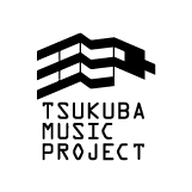
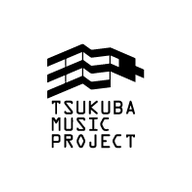
Add files via upload

Changed region(s): [[0.1875, 0.1562, 0.8125, 0.8438]]

diff --git a/public/visitor/style.css b/public/visitor/style.css
@@ -1,5 +1,5 @@
 :root{--bg:#f4f5f7;--card:#fff;--border:#e6e6e6;--text:#111;--sub:#666;--primary:#111;--blue:#0071e3;--green:#18a058;--radius:18px;--shadow:0 1px 3px rgba(0,0,0,.05),0 8px 24px rgba(0,0,0,.05)}
-*{box-sizing:border-box}html,body{margin:0;min-height:100%;font-family:-apple-system,BlinkMacSystemFont,"Helvetica Neue",sans-serif;background:var(--bg);color:var(--text)}body{padding-bottom:calc(82px + env(safe-area-inset-bottom))}button{font:inherit;cursor:pointer}button:focus-visible,a:focus-visible{outline:3px solid #80baff;outline-offset:3px}.topbar{height:64px;position:sticky;top:0;z-index:20;background:rgba(255,255,255,.94);backdrop-filter:blur(18px);display:flex;align-items:center;justify-content:space-between;padding:8px max(16px,calc((100vw - 760px)/2));border-bottom:1px solid rgba(0,0,0,.05)}.brand{display:flex;align-items:center;gap:9px;text-decoration:none;color:var(--text);font-weight:850;font-size:19px;letter-spacing:-.04em}.brand img{width:36px;height:36px;object-fit:contain}.back-btn,.share-top{border:0;background:#f3f4f6;border-radius:12px;width:40px;height:40px;font-size:26px;line-height:1}.back-btn[hidden]{display:none}.share-top{font-size:20px}#app{max-width:760px;margin:auto;padding:18px 16px 24px}.eyebrow{font-size:11px;font-weight:850;letter-spacing:.13em;color:var(--sub);text-transform:uppercase}.page-title{font-size:27px;line-height:1.18;letter-spacing:-.045em;margin:5px 0 7px;font-weight:850}.lead{color:var(--sub);font-size:14px;line-height:1.65;margin:0 0 18px}.section-head{display:flex;align-items:end;justify-content:space-between;gap:12px;margin:26px 2px 12px}.section-head h2{font-size:18px;margin:0;font-weight:850}.section-head button,.text-link{border:0;background:none;color:var(--blue);font-size:13px;font-weight:750}.card{background:var(--card);border-radius:var(--radius);padding:17px;margin-bottom:13px;box-shadow:var(--shadow)}.hero-card{position:relative;overflow:hidden;padding:0;background:#171717;color:white;min-height:260px;display:flex;align-items:end}.hero-card img{position:absolute;inset:0;width:100%;height:100%;object-fit:cover;opacity:.8}.hero-card:after{content:"";position:absolute;inset:25% 0 0;background:linear-gradient(transparent,rgba(0,0,0,.82))}.hero-copy{position:relative;z-index:1;padding:22px;width:100%}.hero-copy .eyebrow{color:#ddd}.hero-copy h2{font-size:27px;line-height:1.15;margin:7px 0}.hero-copy p{margin:0;color:#eee;font-size:13px}.pill{display:inline-flex;align-items:center;gap:6px;border-radius:999px;padding:5px 10px;background:#f1f2f4;color:#444;font-size:11px;font-weight:800}.pill.live{background:#e7f7ee;color:#087b43}.pill.blue{background:#eaf3ff;color:#075eb5}.event-meta{display:flex;gap:8px;flex-wrap:wrap;margin:12px 0}.btn{border:0;border-radius:13px;padding:14px 16px;font-weight:800;width:100%;background:#111;color:#fff}.btn.secondary{background:#f1f2f4;color:#111}.btn.blue{background:var(--blue);color:white}.btn.small{width:auto;padding:10px 13px;font-size:13px}.btn-row{display:flex;gap:9px}.btn-row>*{flex:1}.event-grid{display:grid;grid-template-columns:1fr 1fr;gap:11px}.event-tile{padding:0;overflow:hidden;border:0;text-align:left;background:white;border-radius:16px;box-shadow:var(--shadow)}.event-tile img{width:100%;aspect-ratio:4/3;object-fit:cover;background:#e8e9ec;display:block}.event-tile .tile-copy{padding:12px}.event-tile strong{display:block;font-size:14px;line-height:1.35}.event-tile small{display:block;color:var(--sub);margin-top:5px}.quick-grid{display:grid;grid-template-columns:repeat(4,1fr);gap:9px}.quick{border:0;background:white;border-radius:14px;padding:13px 5px;box-shadow:var(--shadow);font-size:11px;font-weight:750}.quick span{display:block;font-size:22px;margin-bottom:6px}.now-panel{background:#111;color:white;border-radius:17px;padding:16px;margin:13px 0}.now-top{display:flex;align-items:center;justify-content:space-between;color:#ddd;font-size:12px;font-weight:800}.live-dot{width:7px;height:7px;display:inline-block;background:#35d17c;border-radius:50%;margin-right:6px;box-shadow:0 0 0 4px #35d17c22}.now-item{display:flex;justify-content:space-between;gap:12px;padding-top:12px;margin-top:12px;border-top:1px solid #ffffff26}.now-item small{color:#bbb;display:block}.now-item strong{font-size:15px}.timeline{display:grid;gap:10px}.act{display:grid;grid-template-columns:76px 1fr;gap:12px;background:white;padding:14px;border-radius:15px;box-shadow:var(--shadow);border:1px solid transparent}.act.is-now{border-color:#111}.act-time{font-size:13px;font-weight:850;line-height:1.4}.act-time small{display:block;color:var(--sub);font-size:10px}.act-info strong{font-size:15px;display:block}.act-info p{margin:5px 0 0;color:var(--sub);font-size:12px}.act-type{font-size:10px;font-weight:850;color:var(--sub);letter-spacing:.08em}.performer{display:flex;align-items:center;justify-content:space-between;gap:12px;border-top:1px solid var(--border);padding:13px 0}.performer:first-child{border-top:0}.performer strong{font-size:14px}.performer small{display:block;color:var(--sub);font-size:12px;margin-top:3px}.performer button{border:0;background:#f2f3f5;border-radius:10px;padding:8px 11px;font-size:12px;font-weight:750}.drink-grid{display:grid;grid-template-columns:1fr 1fr;gap:10px}.drink{background:white;border-radius:15px;padding:15px;box-shadow:var(--shadow)}.drink strong{font-size:14px}.drink .price{font-size:19px;font-weight:850;margin-top:8px}.drink .sold{font-size:11px;color:#c0392b;font-weight:800}.photo-grid{display:grid;grid-template-columns:repeat(2,1fr);gap:9px}.photo-grid img{width:100%;aspect-ratio:1;object-fit:cover;border-radius:13px;background:#e8e9ec}.empty{background:white;border:1px dashed #d2d4d8;border-radius:16px;padding:25px 16px;text-align:center;color:var(--sub);font-size:13px;line-height:1.6}.empty strong{display:block;color:#222;font-size:15px;margin-bottom:5px}.bottom-nav{position:fixed;z-index:30;bottom:0;left:0;right:0;display:grid;grid-template-columns:repeat(5,minmax(0,1fr));padding:8px 5px calc(8px + env(safe-area-inset-bottom));background:rgba(255,255,255,.96);backdrop-filter:blur(18px);border-top:1px solid #e8e8e8}.bottom-nav button{border:0;background:none;color:#888;display:grid;justify-items:center;gap:3px;padding:2px}.bottom-nav button span{font-size:20px;line-height:1.1}.bottom-nav button small{font-size:9px;font-weight:750}.bottom-nav button.active{color:#111}.bottom-nav button.active span{transform:translateY(-1px)}.notice{font-size:12px;color:var(--sub);line-height:1.6;margin:12px 2px}.modal{position:fixed;inset:0;z-index:60;background:#0008;display:flex;align-items:end;justify-content:center;padding:15px}.modal-box{background:white;border-radius:22px 22px 16px 16px;padding:21px;width:min(100%,560px);max-height:82vh;overflow:auto}.modal-box h2{margin:0 0 8px;font-size:21px}.modal-box p{font-size:14px;color:var(--sub);line-height:1.65}.modal-close{float:right;border:0;border-radius:50%;width:34px;height:34px;background:#f0f1f3;font-size:19px}.loading{text-align:center;padding:60px 10px;color:var(--sub);font-size:13px}.loading img{width:68px;height:68px;object-fit:contain}.error{background:#fff1f0;border-radius:14px;padding:15px;color:#9d2922;font-size:13px}.footer{text-align:center;color:#999;font-size:10px;padding:28px 0 10px}.date-label{color:var(--sub);font-size:12px;font-weight:750;margin:16px 2px 8px}
+*{box-sizing:border-box}html,body{margin:0;min-height:100%;font-family:-apple-system,BlinkMacSystemFont,"Helvetica Neue",sans-serif;background:var(--bg);color:var(--text)}body{padding-bottom:calc(82px + env(safe-area-inset-bottom))}button{font:inherit;cursor:pointer}button:focus-visible,a:focus-visible{outline:3px solid #80baff;outline-offset:3px}.topbar{height:64px;position:sticky;top:0;z-index:20;background:rgba(255,255,255,.94);backdrop-filter:blur(18px);display:flex;align-items:center;justify-content:space-between;padding:8px max(16px,calc((100vw - 760px)/2));border-bottom:1px solid rgba(0,0,0,.05)}.brand{display:flex;align-items:center;gap:9px;text-decoration:none;color:var(--text);font-weight:850;font-size:19px;letter-spacing:-.04em}.brand img{width:36px;height:36px;object-fit:contain}.back-btn,.share-top{border:0;background:#f3f4f6;border-radius:12px;width:40px;height:40px;font-size:26px;line-height:1}.back-btn[hidden]{display:none}.share-top{font-size:20px}#app{max-width:760px;margin:auto;padding:18px 16px 24px}.eyebrow{font-size:11px;font-weight:850;letter-spacing:.13em;color:var(--sub);text-transform:uppercase}.page-title{font-size:27px;line-height:1.18;letter-spacing:-.045em;margin:5px 0 7px;font-weight:850}.lead{color:var(--sub);font-size:14px;line-height:1.65;margin:0 0 18px}.section-head{display:flex;align-items:end;justify-content:space-between;gap:12px;margin:26px 2px 12px}.section-head h2{font-size:18px;margin:0;font-weight:850}.section-head button,.text-link{border:0;background:none;color:var(--blue);font-size:13px;font-weight:750}.card{background:var(--card);border-radius:var(--radius);padding:17px;margin-bottom:13px;box-shadow:var(--shadow)}.hero-card{position:relative;overflow:hidden;padding:0;background:#171717;color:white;min-height:260px;display:flex;align-items:end}.hero-card img{position:absolute;inset:0;width:100%;height:100%;object-fit:cover;opacity:.8}.hero-card:after{content:"";position:absolute;inset:25% 0 0;background:linear-gradient(transparent,rgba(0,0,0,.82))}.hero-copy{position:relative;z-index:1;padding:22px;width:100%}.hero-copy .eyebrow{color:#ddd}.hero-copy h2{font-size:27px;line-height:1.15;margin:7px 0}.hero-copy p{margin:0;color:#eee;font-size:13px}.pill{display:inline-flex;align-items:center;gap:6px;border-radius:999px;padding:5px 10px;background:#f1f2f4;color:#444;font-size:11px;font-weight:800}.pill.live{background:#e7f7ee;color:#087b43}.pill.blue{background:#eaf3ff;color:#075eb5}.event-meta{display:flex;gap:8px;flex-wrap:wrap;margin:12px 0}.btn{border:0;border-radius:13px;padding:14px 16px;font-weight:800;width:100%;background:#111;color:#fff}.btn.secondary{background:#f1f2f4;color:#111}.btn.blue{background:var(--blue);color:white}.btn.small{width:auto;padding:10px 13px;font-size:13px}.btn-row{display:flex;gap:9px}.btn-row>*{flex:1}.event-grid{display:grid;grid-template-columns:1fr 1fr;gap:11px}.event-tile{padding:0;overflow:hidden;border:0;text-align:left;background:white;border-radius:16px;box-shadow:var(--shadow)}.event-tile img{width:100%;aspect-ratio:4/3;object-fit:cover;background:#e8e9ec;display:block}.event-tile .tile-copy{padding:12px}.event-tile strong{display:block;font-size:14px;line-height:1.35}.event-tile small{display:block;color:var(--sub);margin-top:5px}.quick-grid{display:grid;grid-template-columns:repeat(4,1fr);gap:9px}.quick{border:0;background:white;border-radius:14px;padding:13px 5px;box-shadow:var(--shadow);font-size:11px;font-weight:750}.quick span{display:block;font-size:22px;margin-bottom:6px}.now-panel{background:#111;color:white;border-radius:17px;padding:16px;margin:13px 0}.now-top{display:flex;align-items:center;justify-content:space-between;color:#ddd;font-size:12px;font-weight:800}.live-dot{width:7px;height:7px;display:inline-block;background:#35d17c;border-radius:50%;margin-right:6px;box-shadow:0 0 0 4px #35d17c22}.now-item{display:flex;justify-content:space-between;gap:12px;padding-top:12px;margin-top:12px;border-top:1px solid #ffffff26}.now-item small{color:#bbb;display:block}.now-item strong{font-size:15px}.timeline{display:grid;gap:10px}.act{display:grid;grid-template-columns:76px 1fr;gap:12px;background:white;padding:14px;border-radius:15px;box-shadow:var(--shadow);border:1px solid transparent}.act.is-now{border-color:#111}.act-time{font-size:13px;font-weight:850;line-height:1.4}.act-time small{display:block;color:var(--sub);font-size:10px}.act-info strong{font-size:15px;display:block}.act-info p{margin:5px 0 0;color:var(--sub);font-size:12px}.act-type{font-size:10px;font-weight:850;color:var(--sub);letter-spacing:.08em}.performer{display:flex;align-items:center;justify-content:space-between;gap:12px;border-top:1px solid var(--border);padding:13px 0}.performer:first-child{border-top:0}.performer strong{font-size:14px}.performer small{display:block;color:var(--sub);font-size:12px;margin-top:3px}.performer button{border:0;background:#f2f3f5;border-radius:10px;padding:8px 11px;font-size:12px;font-weight:750}.drink-grid{display:grid;grid-template-columns:1fr 1fr;gap:10px}.drink{background:white;border-radius:15px;padding:15px;box-shadow:var(--shadow)}.drink strong{font-size:14px}.drink .price{font-size:19px;font-weight:850;margin-top:8px}.drink .sold{font-size:11px;color:#c0392b;font-weight:800}.photo-grid{display:grid;grid-template-columns:repeat(2,1fr);gap:9px}.photo-grid img{width:100%;aspect-ratio:1;object-fit:cover;border-radius:13px;background:#e8e9ec}.empty{background:white;border:1px dashed #d2d4d8;border-radius:16px;padding:25px 16px;text-align:center;color:var(--sub);font-size:13px;line-height:1.6}.empty strong{display:block;color:#222;font-size:15px;margin-bottom:5px}.bottom-nav{position:fixed;z-index:30;bottom:0;left:0;right:0;display:grid;grid-template-columns:repeat(5,minmax(0,1fr));padding:8px 5px calc(8px + env(safe-area-inset-bottom));background:rgba(255,255,255,.96);backdrop-filter:blur(18px);border-top:1px solid #e8e8e8}.bottom-nav button{border:0;background:none;color:#888;display:grid;justify-items:center;gap:3px;padding:2px}.bottom-nav button span{font-size:20px;line-height:1.1}.bottom-nav button small{font-size:9px;font-weight:750}.bottom-nav button.active{color:#111}.bottom-nav button.active span{transform:translateY(-1px)}.notice{font-size:12px;color:var(--sub);line-height:1.6;margin:12px 2px}.modal{position:fixed;inset:0;z-index:60;background:#0008;display:flex;align-items:center;justify-content:center;padding:20px}.modal-box{background:white;border-radius:22px;padding:21px;width:min(100%,560px);max-height:82vh;overflow:auto}.modal-box h2{margin:0 0 8px;font-size:21px}.modal-box p{font-size:14px;color:var(--sub);line-height:1.65}.modal-close{float:right;border:0;border-radius:50%;width:34px;height:34px;background:#f0f1f3;font-size:19px}.loading{text-align:center;padding:60px 10px;color:var(--sub);font-size:13px}.loading img{width:68px;height:68px;object-fit:contain}.error{background:#fff1f0;border-radius:14px;padding:15px;color:#9d2922;font-size:13px}.footer{text-align:center;color:#999;font-size:10px;padding:28px 0 10px}.date-label{color:var(--sub);font-size:12px;font-weight:750;margin:16px 2px 8px}
 @media(min-width:620px){#app{padding-top:26px}.hero-card{min-height:340px}.hero-copy h2{font-size:34px}.event-grid{grid-template-columns:repeat(3,1fr)}.photo-grid{grid-template-columns:repeat(3,1fr)}}
 
 /* Responsive layout and visitor profile / RSVP components */
@@ -772,3 +772,6 @@ html,body{
   .topbar,.bottom-nav,.modal-box,.card{background:rgba(255,255,255,.97)!important}
 }
 @media(prefers-reduced-motion:reduce){*{scroll-behavior:auto!important;transition:none!important}}
+
+/* v64: centered notification dialogs and Apple-like settings rows */
+.notification-setting-row{display:flex;align-items:center;justify-content:space-between;gap:14px;padding:15px 0;border-top:1px solid var(--border)}.notification-setting-row p{margin:5px 0 0;font-size:12px;color:var(--sub);line-height:1.5}.notification-setting-row .pill{flex:0 0 auto}

diff --git a/public/visitor/app.js b/public/visitor/app.js
@@ -183,7 +183,7 @@
     const name=enteredName||(status==='not-going'?'非公開':'');
     if(!name){alert('参加・興味ありの場合は、一覧に表示する名前を入力してください。');$('#rsvpName')?.focus();return;}
     try{
-      const res=await fetch(`/api/public/rsvp?eventId=${encodeURIComponent(ev.id)}`,{method:'POST',headers:{'Content-Type':'application/json'},body:JSON.stringify({name,status})});
+      const res=await fetch(`/api/public/rsvp?eventId=${encodeURIComponent(ev.id)}`,{method:'POST',headers:{'Content-Type':'application/json'},body:JSON.stringify({name,status}),credentials:'same-origin',cache:'no-store'});
       if(!res.ok)throw new Error(await res.text());
       saveRsvp(ev.id,status);if(status!=='not-going')localStorage.setItem('tonight_visitor_display_name',name);render();
     }catch(error){alert('参加表明を保存できませんでした。通信環境を確認して、もう一度お試しください。');}
@@ -192,7 +192,7 @@
   async function cancelRsvp(){
     const ev=selected();if(!ev)return;
     try{
-      const res=await fetch(`/api/public/rsvp?eventId=${encodeURIComponent(ev.id)}`,{method:'DELETE',credentials:'same-origin'});
+      const res=await fetch(`/api/public/rsvp?eventId=${encodeURIComponent(ev.id)}`,{method:'DELETE',credentials:'same-origin',cache:'no-store'});
       if(!res.ok)throw new Error(await res.text());
       saveRsvp(ev.id,null);render();
     }catch{alert('参加表明を取り消せませんでした。通信環境を確認して、もう一度お試しください。');}
@@ -222,9 +222,36 @@
   async function openNotifications(){
     await refreshGlobalMessages();
     localStorage.setItem(MESSAGE_READ_KEY,String(Date.now())); updateNotificationBadge();
-    openModal(`<div class="notification-panel"><div class="notification-panel-head"><div><div class="eyebrow">TONIGHT! NOTIFICATIONS</div><h2>通知</h2><p>TMPからのお知らせ · ${globalMessages.length}件</p></div><button class="text-link" id="enablePushBtn" type="button">通知をオンにする</button></div><div id="notificationMessages">${renderGlobalMessageRows()}</div></div>`);
+    openModal(`<div class="notification-panel"><div class="notification-panel-head"><div><div class="eyebrow">TONIGHT! NOTIFICATIONS</div><h2>通知</h2><p>TMPからのお知らせ · ${globalMessages.length}件</p></div><button class="text-link" id="notificationSettingsBtn" type="button">通知設定</button></div><div id="notificationMessages">${renderGlobalMessageRows()}</div></div>`);
+  }
+  async function openNotificationSettings(){
+    const sub=await getPushSubscription();
+    const pushOn=!!sub && ('Notification' in window) && Notification.permission==='granted';
+    const inAppOn=localStorage.getItem(NOTICE_KEY)==='1';
+    openModal(`<section class="push-prompt" role="dialog" aria-modal="true" aria-labelledby="notificationSettingsTitle">
+      <div class="eyebrow">TONIGHT! NOTIFICATIONS</div><h2 id="notificationSettingsTitle">通知設定</h2>
+      <div class="notification-setting-row"><div><strong>プッシュ通知</strong><p>アプリを閉じているときもTMPからのお知らせを受け取ります。</p></div><span class="pill ${pushOn?'live':'blue'}">${pushOn?'オン':'オフ'}</span></div>
+      <div class="notification-setting-row"><div><strong>アプリ内の出演・開催通知</strong><p>アプリを開いている間に開催日や出演開始をお知らせします。</p></div><span class="pill ${inAppOn?'live':'blue'}">${inAppOn?'オン':'オフ'}</span></div>
+      <div class="push-prompt-actions">${pushOn?'<button class="btn secondary" id="disablePushBtn" type="button">プッシュ通知をオフにする</button>':'<button class="btn" id="enablePushBtn" type="button">プッシュ通知をオンにする</button>'}
+      <button class="btn ${inAppOn?'secondary':''}" id="toggleInAppNoticeBtn" type="button">${inAppOn?'アプリ内通知をオフにする':'アプリ内通知をオンにする'}</button></div>
+      <p class="push-prompt-footnote">端末・ブラウザ自体の通知許可は、端末の設定から変更できます。</p>
+    </section>`);
+  }
+  async function disablePushNotifications(){
+    try{
+      const sub=await getPushSubscription();
+      if(sub){
+        const res=await fetch('/api/public/push-subscription',{method:'DELETE',headers:{'Content-Type':'application/json'},body:JSON.stringify(sub),credentials:'same-origin'});
+        if(!res.ok) throw new Error('server-unsubscribe');
+        await sub.unsubscribe();
+      }
+      localStorage.setItem(PUSH_DISABLED_KEY,'1');
+      sessionStorage.setItem(PUSH_PROMPT_SESSION_KEY,'1');
+      await openNotificationSettings();
+    }catch(error){alert('プッシュ通知をオフにできませんでした。通信状態を確認して、もう一度お試しください。');}
   }
   const PUSH_PROMPT_SESSION_KEY = 'tonight_push_prompt_seen_v1';
+  const PUSH_DISABLED_KEY = 'tonight_push_disabled_v1';
   function pushEnvironment(){
     const supported = 'serviceWorker' in navigator && 'PushManager' in window && 'Notification' in window;
     const standalone = window.matchMedia?.('(display-mode: standalone)').matches || window.navigator.standalone === true;
@@ -267,7 +294,7 @@
   }
   async function showPushSetupPrompt(){
     const {supported,standalone} = pushEnvironment();
-    if(!supported || sessionStorage.getItem(PUSH_PROMPT_SESSION_KEY)==='1') return;
+    if(!supported || localStorage.getItem(PUSH_DISABLED_KEY)==='1' || sessionStorage.getItem(PUSH_PROMPT_SESSION_KEY)==='1') return;
     let subscription = await getPushSubscription();
     if(Notification.permission==='granted' && subscription) return;
     sessionStorage.setItem(PUSH_PROMPT_SESSION_KEY,'1');
@@ -297,7 +324,7 @@
       const applicationServerKey=Uint8Array.from(atob(encoded+'='.repeat((4-encoded.length%4)%4)),c=>c.charCodeAt(0));
       subscription=await registration.pushManager.subscribe({userVisibleOnly:true,applicationServerKey});
     }
-    const res=await fetch('/api/public/push-subscription',{method:'POST',headers:{'Content-Type':'application/json'},body:JSON.stringify(subscription)});
+    const res=await fetch('/api/public/push-subscription',{method:'POST',headers:{'Content-Type':'application/json'},body:JSON.stringify(subscription),credentials:'same-origin'});
     if(!res.ok) throw new Error('push-subscription');
     return subscription;
   }
@@ -313,6 +340,7 @@
         return;
       }
       await subscribeForPush();
+      localStorage.removeItem(PUSH_DISABLED_KEY);
       sessionStorage.setItem(PUSH_PROMPT_SESSION_KEY,'1');
       modalRoot.innerHTML='';
       alert('TMPからのお知らせ通知を受け取る設定が完了しました。');
@@ -476,7 +504,7 @@
       if(!silent)app.innerHTML=`${headerTitle('情報を読み込めませんでした')}<div class="error">イベント情報の取得に失敗しました。通信環境を確認して、再読み込みしてください。<br><br><button class="btn" id="retry">再読み込み</button></div>`;
     }
   }
-  document.addEventListener('click',e=>{
+  document.addEventListener('click',async e=>{
     const carouselMove=e.target.closest('[data-carousel-move]');
     if(carouselMove){
       const shell=carouselMove.closest('.carousel-shell');
@@ -506,6 +534,9 @@
     const rsvpChoice=e.target.closest('[data-rsvp-choice]');if(rsvpChoice){setRsvpStatus(rsvpChoice.dataset.rsvpChoice);return;}
     if(e.target.closest('#rsvpCancel')){cancelRsvp();return;}
     if(e.target.closest('#enablePushBtn,#pushPromptOpenSettings')){enablePushNotifications();return;}
+    if(e.target.closest('#notificationSettingsBtn')){openNotificationSettings();return;}
+    if(e.target.closest('#disablePushBtn')){disablePushNotifications();return;}
+    if(e.target.closest('#toggleInAppNoticeBtn')){if(localStorage.getItem(NOTICE_KEY)==='1')localStorage.removeItem(NOTICE_KEY);else{if(!('Notification' in window)){alert('このブラウザは通知に対応していません。');return;}const permission=await Notification.requestPermission();if(permission!=='granted'){alert('端末の通知許可が必要です。');return;}localStorage.setItem(NOTICE_KEY,'1');}openNotificationSettings();return;}
     if(e.target.closest('#notificationBtn,[data-open-notifications]')){openNotifications();return;}
     const reaction=e.target.closest('[data-reaction]');if(reaction){toggleReaction(reaction.dataset.message,reaction.dataset.reaction);return;}
     if(e.target.closest('#backBtn')){if(page==='detail'){setPage('home');return;}setPage('home');return;}

diff --git a/src/worker.js b/src/worker.js
@@ -168,7 +168,8 @@ async function visitorCookie(request, env) {
   if (!part || !configured(env)) return null;
   try {
     const token = decodeURIComponent(part.slice(VISITOR_COOKIE.length + 1));
-    const dot = token.indexOf('.'); if (dot < 1) return null;
+    // Token format is id.expiry.signature; split at the final dot so the signed payload retains id.expiry.
+    const dot = token.lastIndexOf('.'); if (dot < 1) return null;
     const payload = token.slice(0, dot), signature = token.slice(dot + 1);
     const [id, expiresText] = payload.split('.'); const expires = Number(expiresText);
     if (!/^[A-Za-z0-9_-]{20,80}$/.test(id || '') || !Number.isSafeInteger(expires) || expires <= Math.floor(Date.now()/1000)) return null;
@@ -290,8 +291,11 @@ export class Store {
         if (!['going', 'interested', 'not-going'].includes(status)) return text('bad status', 400);
         if (!name) return text('name required', 400);
         if (Object.keys(records).length >= 1000 && !records[visitorId]) return text('full', 409);
-        records[visitorId] = { name, status, createdAt: Date.now() }; await this.state.storage.put(key, records);
-        return json({ ok: true, count: Object.keys(records).length });
+        const previous = records[visitorId];
+        // One record per signed visitor identity per event. Repeated submissions update that record.
+        records[visitorId] = { name, status, createdAt: previous?.createdAt || Date.now(), updatedAt: Date.now() };
+        await this.state.storage.put(key, records);
+        return json({ ok: true, count: Object.keys(records).length, updated: Boolean(previous) });
       }
       return text('method not allowed', 405, { Allow: 'GET, POST, DELETE' });
     }
@@ -452,7 +456,7 @@ export default {
       const headers=new Headers(request.headers); headers.set('X-Visitor-Id',identity.id);
       const forwardedBody=['GET','HEAD'].includes(request.method)?undefined:await request.arrayBuffer();
       response=await stub.fetch(new Request(innerUrl,{method:request.method,headers,body:forwardedBody}));
-      const outHeaders=new Headers(response.headers); if(identity.cookie)outHeaders.append('Set-Cookie',identity.cookie);
+      const outHeaders=new Headers(response.headers); outHeaders.set('Cache-Control','no-store'); if(identity.cookie)outHeaders.append('Set-Cookie',identity.cookie);
       return secureResponse(new Response(response.body,{status:response.status,headers:outHeaders}),url);
     }
     if (url.pathname === '/api/public/push-key' && request.method==='GET') return secureResponse(json({publicKey:env.VAPID_PUBLIC_KEY||''}),url);

diff --git a/public/visitor/index.html b/public/visitor/index.html
@@ -13,7 +13,7 @@
   <link rel="manifest" href="manifest.json">
   <link rel="apple-touch-icon" href="../icon-192.png">
   <link rel="icon" type="image/png" href="../TMPlogo.png">
-  <link rel="stylesheet" href="style.css?v=v63-liquid-glass">
+  <link rel="stylesheet" href="style.css?v=v64-tmp-logo">
 </head>
 <body>
   <header class="topbar">
@@ -31,7 +31,7 @@
     <button data-page="photos"><span class="nav-icon" aria-hidden="true"><svg viewBox="0 0 24 24"><path d="M3 7.5h4l1.5-2h7l1.5 2h4v12H3z"/><circle cx="12" cy="13.5" r="4"/></svg></span><small>フォト</small></button>
   </nav>
   <div id="modalRoot"></div>
-  <script src="app.js?v=v63-push-prompt"></script>
+  <script src="app.js?v=v64-rsvp-notifications"></script>
   <script>if('serviceWorker' in navigator) addEventListener('load',()=>navigator.serviceWorker.register('./sw.js').catch(()=>{}));</script>
 </body>
 </html>

diff --git a/public/index.html b/public/index.html
@@ -9,7 +9,7 @@
   <meta name="theme-color" content="#f5f5f7">
   <meta name="apple-mobile-web-app-title" content="tonight!管理用">
   <title>tonight!管理用</title>
-  <link rel="stylesheet" href="style.css?v=v63-liquid-glass-admin">
+  <link rel="stylesheet" href="style.css?v=v64-tmp-logo">
   <link rel="manifest" href="manifest.json">
   <link rel="apple-touch-icon" href="icon-192.png">
   <meta name="apple-mobile-web-app-capable" content="yes">
@@ -43,6 +43,6 @@
   </script>
 
   <script src="https://cdn.jsdelivr.net/npm/xlsx@0.18.5/dist/xlsx.full.min.js"></script>
-  <script src="app.js?v=v63-admin-glass"></script>
+  <script src="app.js?v=v64-admin-logo"></script>
 </body>
 </html>

diff --git a/public/style.css b/public/style.css
@@ -4294,3 +4294,7 @@ button:focus-visible,.btn:focus-visible,input:focus-visible,select:focus-visible
 @media(prefers-reduced-motion:reduce){
   *,*::before,*::after{scroll-behavior:auto!important;transition:none!important;animation-duration:.01ms!important;animation-iteration-count:1!important}
 }
+
+/* v64: TMP mark in the administrator header */
+#pageTitle{display:flex;align-items:center;gap:10px;min-width:0}
+#pageTitle::before{content:"";display:inline-block;flex:0 0 32px;width:32px;height:32px;background:url("TMPlogo.png") center/contain no-repeat}

diff --git a/public/sw.js b/public/sw.js
@@ -1,5 +1,5 @@
 // ネットワーク優先。通信できない時だけ保存済みの画面を表示する（/api は対象外）
-const C = 'tonight-v58';
+const C = 'tonight-v64';
 
 self.addEventListener('install', event => {
   event.waitUntil(self.skipWaiting());

diff --git a/public/visitor/sw.js b/public/visitor/sw.js
@@ -1,5 +1,5 @@
 // ネットワーク優先。通信できない時だけ保存済みの画面を表示する（/api は対象外）
-const C = 'tonight-v58';
+const C = 'tonight-v64';
 
 self.addEventListener('install', event => {
   event.waitUntil(self.skipWaiting());

diff --git a/README.md b/README.md
@@ -84,3 +84,10 @@ Set these using `npx wrangler secret put VAPID_PUBLIC_KEY`, `npx wrangler secret
 - 管理者のお知らせ投稿に太字・斜体・下線・取り消し線・箇条書き・番号付きリスト・HTTPSリンクの書式ツールを追加。
 - 管理者は投稿済みのお知らせを編集可能。
 - リッチテキストHTMLはWorker側で許可タグ・リンクを制限して保存・配信。
+
+## v64 updates
+- Applied the supplied TSUKUBA MUSIC PROJECT logo to the administrator and visitor app branding, favicon, and PWA icons.
+- Fixed visitor cookie parsing: visitor tokens are `id.expiry.signature`, so validation now splits at the final period. This preserves one signed visitor identity across RSVP requests.
+- RSVP writes explicitly use same-origin credentials and update the existing record for that visitor/event instead of creating a second record.
+- Added notification settings in the visitor notification panel. Push subscriptions can be removed from the server and browser; in-app event/performance notifications can also be turned off.
+- Notification dialogs are centered on screen.
